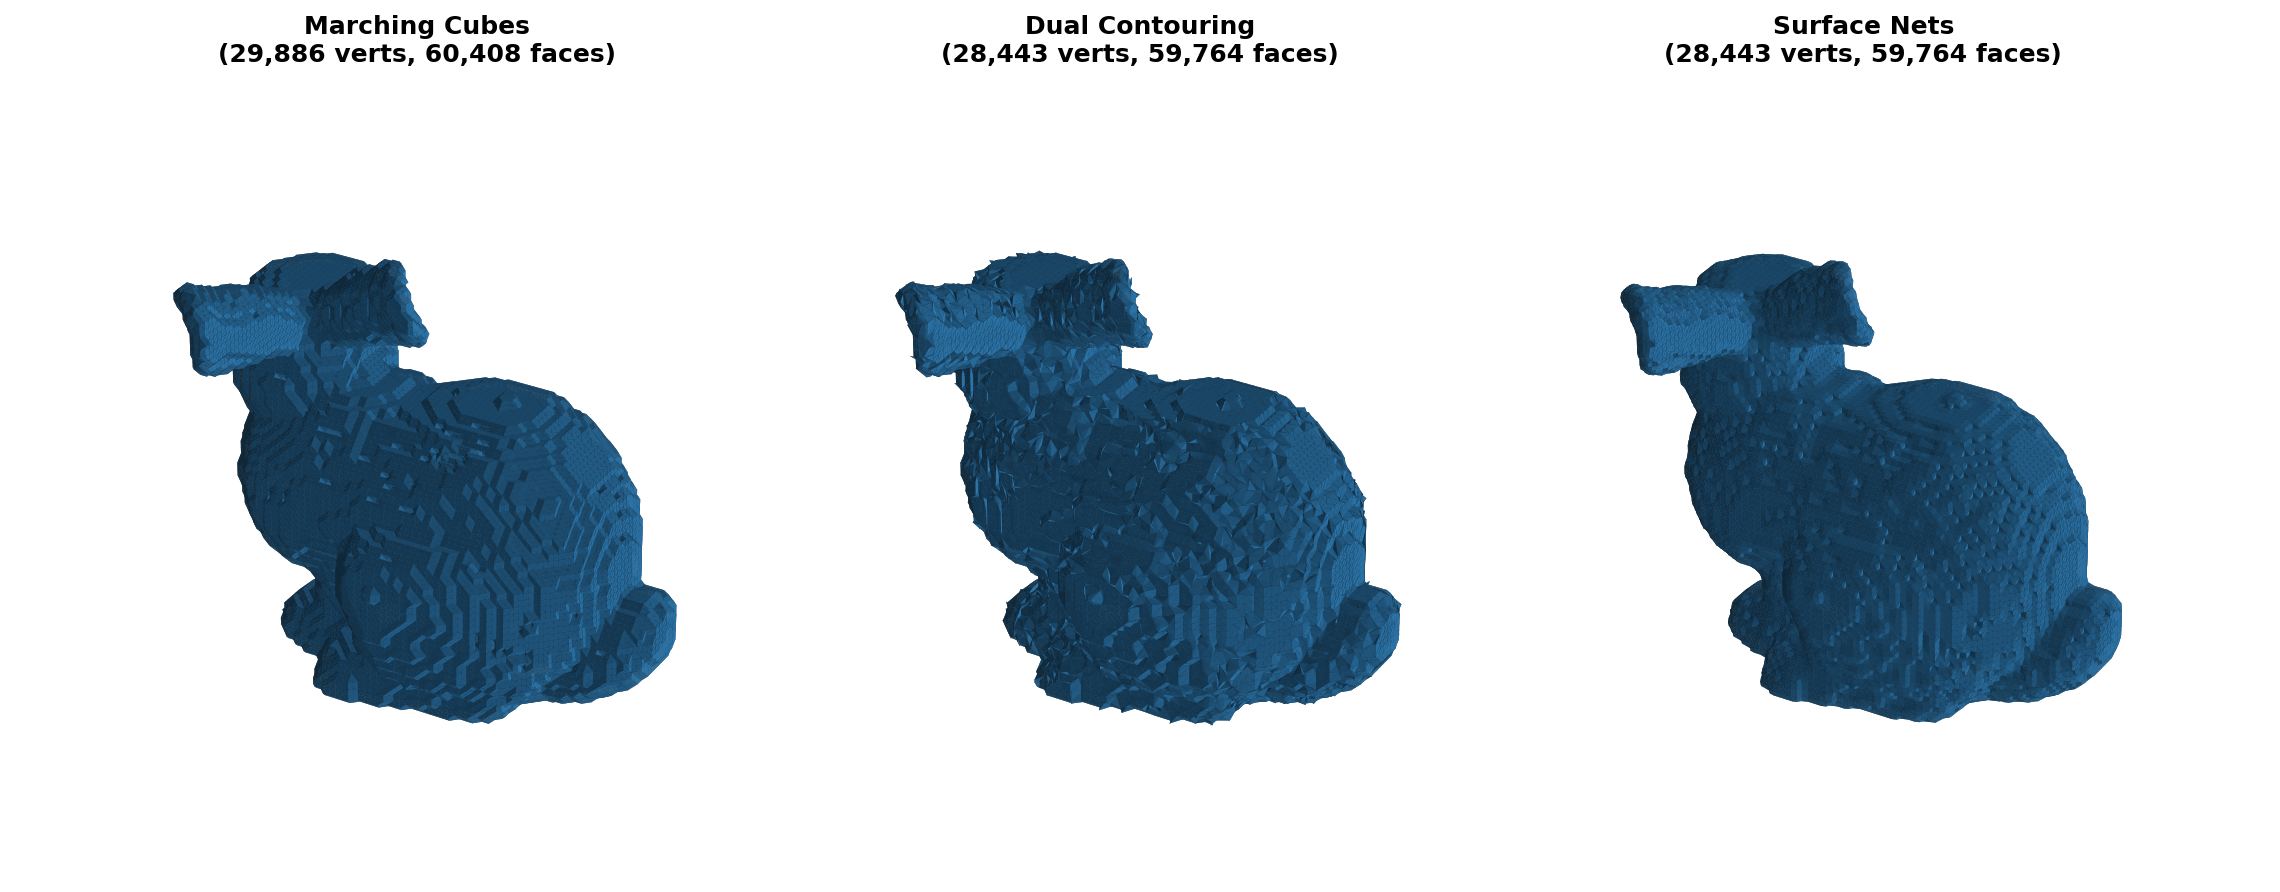
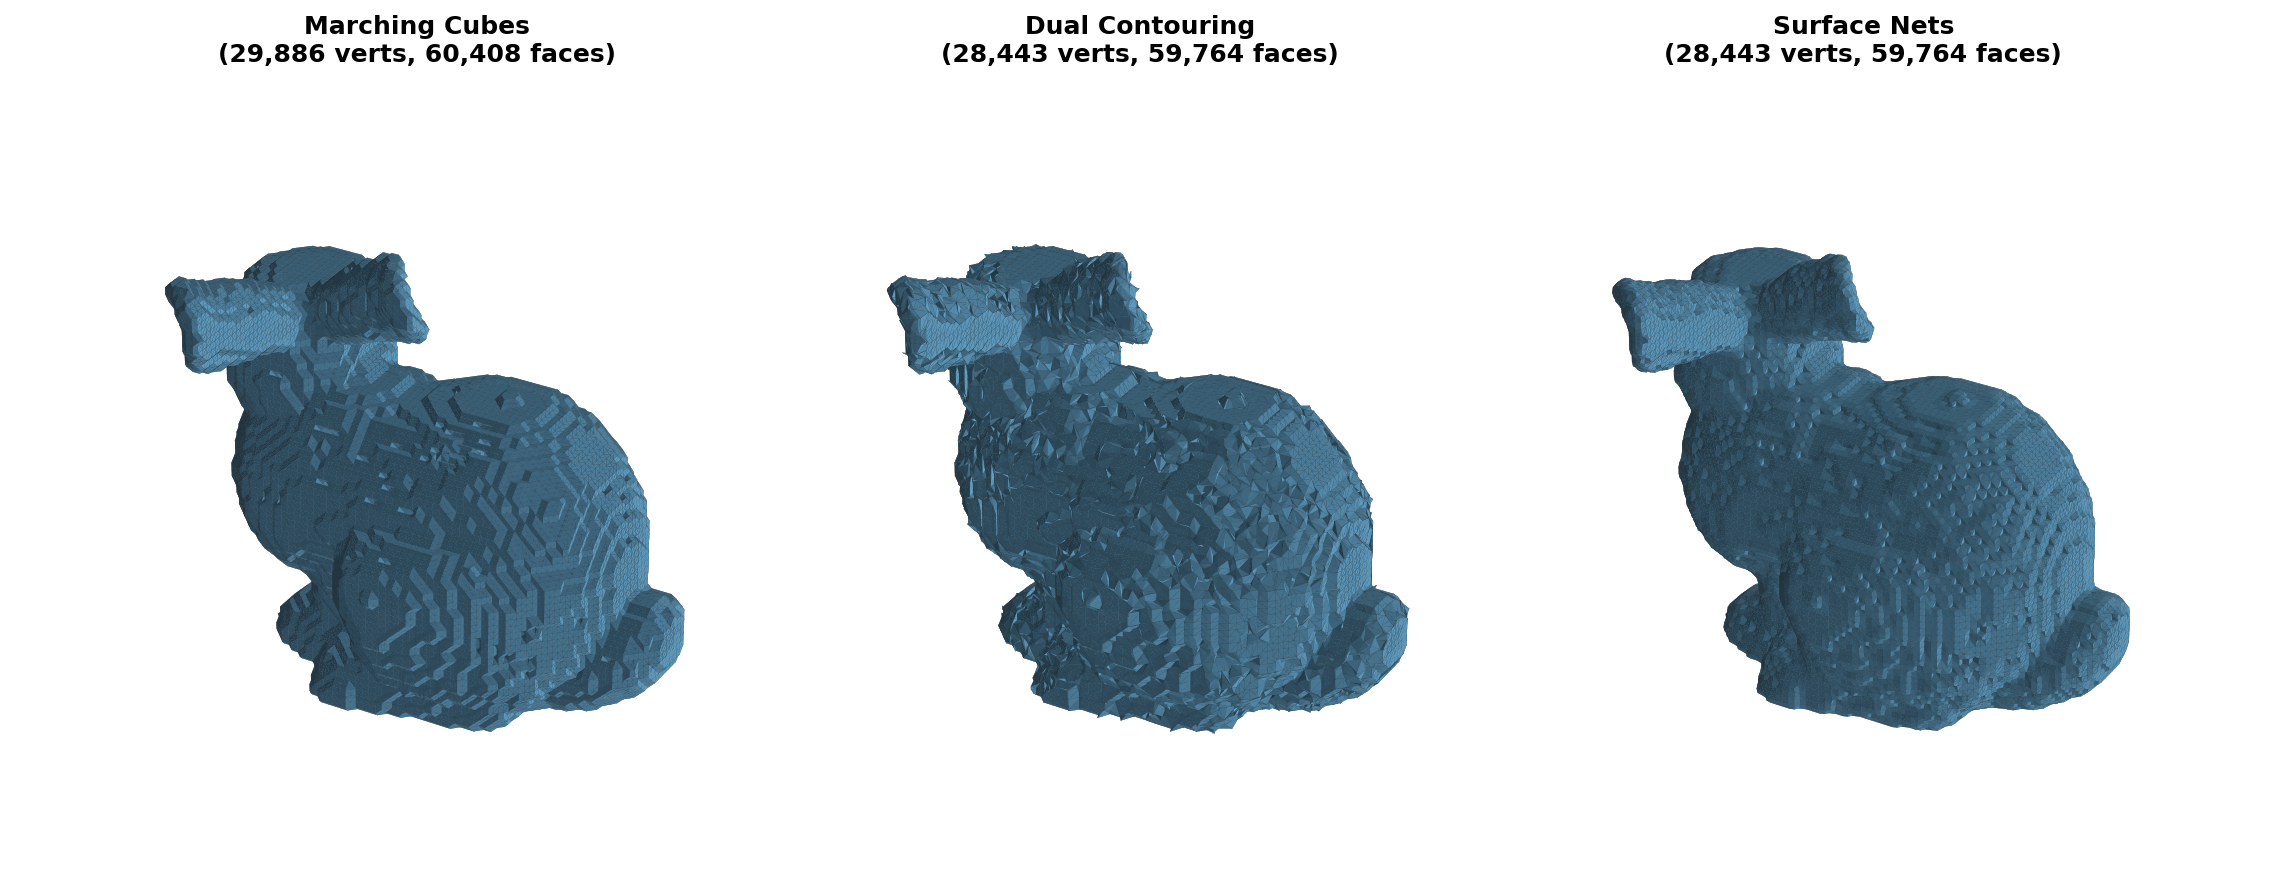
fix: zoom in bunny comparison, lighter color for mesh detail, fix margins

Changed region(s): [[0.3737, 0.2724, 0.6228, 0.8173], [0.6851, 0.2724, 0.9342, 0.8173], [0.0623, 0.2724, 0.3114, 0.8173]]

diff --git a/scripts/generate_doc_images.py b/scripts/generate_doc_images.py
@@ -755,20 +755,21 @@ def gen_extraction_comparison() -> None:
         ("Dual Contouring", dc_v, dc_f),
         ("Surface Nets", sn_v, sn_f),
     ]
-    # Tight per-axis bounds with small padding
+    # Tight bounds — zoom in by reducing padding
     all_v = np.vstack([mc_v, dc_v, sn_v])
-    pad = 1
     # After Y↔Z swap: plot X=axis0 (length), Y=axis2 (width), Z=axis1 (height)
-    xlim = (all_v[:, 0].min() - pad, all_v[:, 0].max() + pad)
-    ylim = (all_v[:, 2].min() - pad, all_v[:, 2].max() + pad)
-    zlim = (all_v[:, 1].min() - pad, all_v[:, 1].max() + pad)
+    xlim = (all_v[:, 0].min(), all_v[:, 0].max())
+    ylim = (all_v[:, 2].min(), all_v[:, 2].max())
+    zlim = (all_v[:, 1].min(), all_v[:, 1].max())
     ranges = np.array([xlim[1] - xlim[0], ylim[1] - ylim[0], zlim[1] - zlim[0]])
     box_aspect = ranges / ranges.max()
     for i, (name, v, f) in enumerate(methods):
         ax = fig.add_subplot(1, 3, i + 1, projection="3d")
         # Swap Y↔Z so bunny height (axis 1) maps to matplotlib's vertical (Z)
+        # Lighter face color + darker edges for better mesh detail visibility
         ax.plot_trisurf(
-            v[:, 0], v[:, 2], v[:, 1], triangles=f, color="#3182BD", edgecolor="#1a1a1a", linewidth=0.02, alpha=0.95
+            v[:, 0], v[:, 2], v[:, 1], triangles=f,
+            color="#6BAED6", edgecolor="#2a2a2a", linewidth=0.03, alpha=0.95,
         )
         ax.set_title(f"{name}\n({v.shape[0]:,} verts, {f.shape[0]:,} faces)", fontsize=12, fontweight="bold")
         ax.view_init(elev=30, azim=-60)
@@ -777,7 +778,7 @@ def gen_extraction_comparison() -> None:
         ax.set_ylim(*ylim)
         ax.set_zlim(*zlim)
         ax.set_box_aspect(box_aspect)
-    fig.subplots_adjust(left=0.0, right=1.0, bottom=-0.05, top=0.82, wspace=-0.1)
+    fig.subplots_adjust(left=0.0, right=1.0, bottom=-0.12, top=0.88, wspace=-0.1)
     fig.savefig(OUTPUT_DIR / "extraction-comparison.png", dpi=DPI, bbox_inches="tight", facecolor=BG_COLOR)
     plt.close(fig)
 
